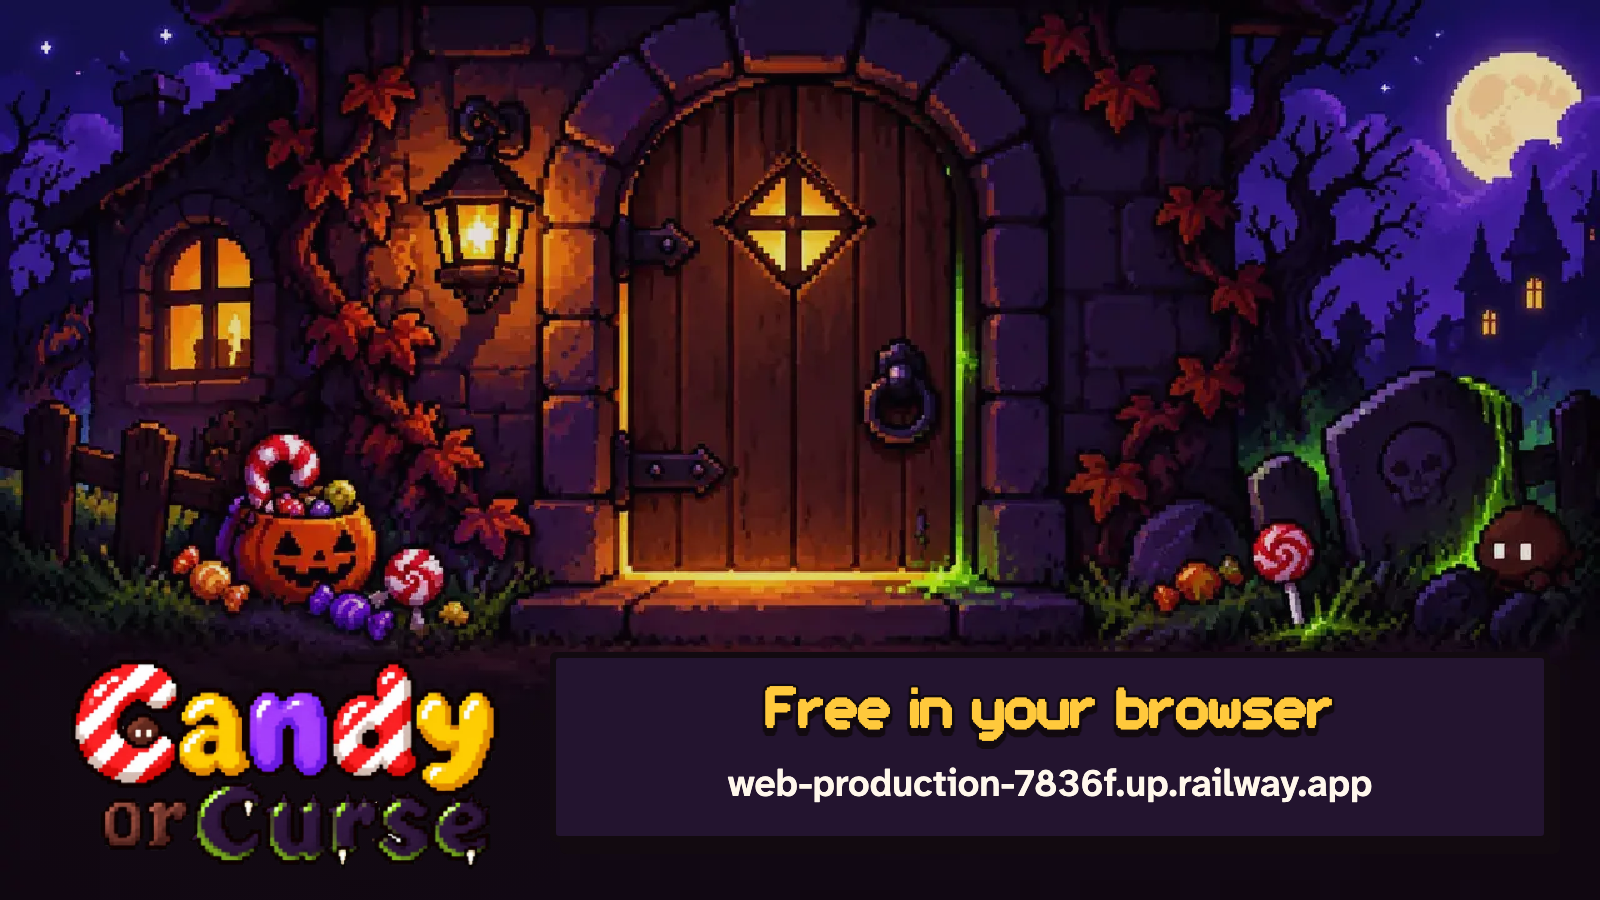
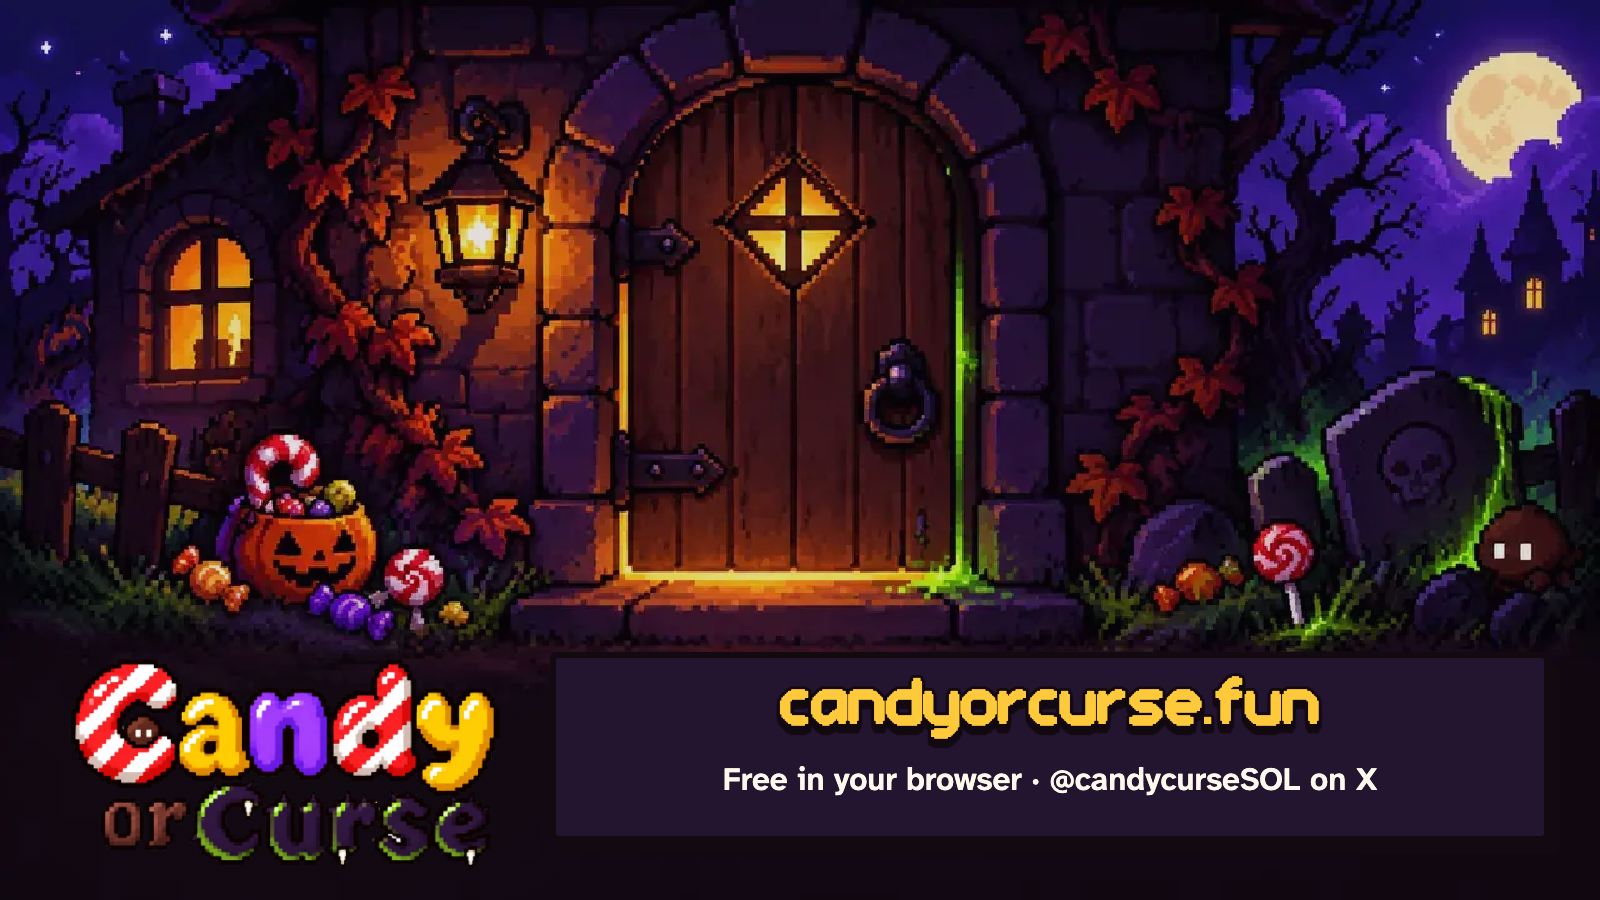
feat: Candy or Curse article points at candyorcurse.fun and @candycurseSOL

Changed region(s): [[0.4375, 0.7467, 0.875, 0.9022]]

diff --git a/kits/candy-or-curse/art/05-close.html b/kits/candy-or-curse/art/05-close.html
@@ -11,4 +11,4 @@ image.px{image-rendering:pixelated}
 </style></head><body><svg width="1600" height="900" viewBox="0 0 1600 900"><defs>
 <pattern id="cane" width="28" height="28" patternUnits="userSpaceOnUse" patternTransform="rotate(45)">
 <rect width="28" height="28" fill="#fff8ec"/><rect width="14" height="28" fill="#e8262b"/></pattern>
-</defs><rect width="1600" height="900" fill="#23142f"/><image class="px" href="porch.webp" x="0" y="0" width="1600" height="900"/><rect width="1600" height="900" fill="#23142f" opacity=".12"/><radialGradient id="pl300"><stop offset="0" stop-color="#120a10" stop-opacity="0.8"/><stop offset="1" stop-color="#120a10" stop-opacity="0"/></radialGradient><ellipse cx="300" cy="760" rx="340" ry="190" fill="url(#pl300)"/><image href="wordmark.webp" x="50" y="640" width="470" height="249.1"/><rect x="560" y="664" width="1000" height="190" rx="6" fill="#120a10"/><rect x="550" y="652" width="1000" height="190" rx="6" fill="#120a10"/><rect x="556" y="658" width="988" height="178" rx="3" fill="#23142f"/><text class="tf o" x="1050" y="733.04" font-size="56" text-anchor="middle" fill="#120a10" stroke-width="6.16">Free in your browser</text><text class="tf o" x="1050" y="728" font-size="56" text-anchor="middle" fill="#ffc93c" stroke-width="6.16">Free in your browser</text><text class="tx" x="1050" y="796" font-size="38" font-weight="700" text-anchor="middle" fill="#fff8ec">web-production-7836f.up.railway.app</text></svg></body></html>
+</defs><rect width="1600" height="900" fill="#23142f"/><image class="px" href="porch.webp" x="0" y="0" width="1600" height="900"/><rect width="1600" height="900" fill="#23142f" opacity=".12"/><radialGradient id="pl300"><stop offset="0" stop-color="#120a10" stop-opacity="0.8"/><stop offset="1" stop-color="#120a10" stop-opacity="0"/></radialGradient><ellipse cx="300" cy="760" rx="340" ry="190" fill="url(#pl300)"/><image href="wordmark.webp" x="50" y="640" width="470" height="249.1"/><rect x="560" y="664" width="1000" height="190" rx="6" fill="#120a10"/><rect x="550" y="652" width="1000" height="190" rx="6" fill="#120a10"/><rect x="556" y="658" width="988" height="178" rx="3" fill="#23142f"/><text class="tf o" x="1050" y="729.76" font-size="64" text-anchor="middle" fill="#120a10" stroke-width="7.04">candyorcurse.fun</text><text class="tf o" x="1050" y="724" font-size="64" text-anchor="middle" fill="#ffc93c" stroke-width="7.04">candyorcurse.fun</text><text class="tx" x="1050" y="790" font-size="32" font-weight="700" text-anchor="middle" fill="#fff8ec">Free in your browser  ·  @candycurseSOL on X</text></svg></body></html>

diff --git a/docs/candy-or-curse/index.html b/docs/candy-or-curse/index.html
@@ -48,7 +48,8 @@ button.ok{background:#f5b301;color:#111}
 <p>Paid treats come from creator fees, and every one buys $CoC. A bigger bag gets a bigger bucket, up to double the treat.</p>
 <h2>Level up, open the town</h2></div></div></div><div class="step"><div class="num">8</div><div class="card"><div class="head"><span class="tag">Image</span><span class="sp"></span><a class="btn ghost" download="04-town.png" href="04-town.png">Download</a><button onclick="copyImage(this)">Copy image</button></div><img src="04-town.png" alt=""></div></div><div class="step"><div class="num">9</div><div class="card"><div class="head"><span class="tag">Text</span><span class="sp"></span><button onclick="copyText(this)">Copy</button></div><div class="body"><p>Hollow Lane is the start. Level up to open the Graveyard, the corn maze, Scream Park and Witch Woods. Fly over all of it on a broom.</p>
 <p><b>Every 15 to 25 minutes the Big House rings its bell and opens for 90 seconds.</b> Get in fast.</p>
-<h2>Come knock</h2></div></div></div><div class="step"><div class="num">10</div><div class="card"><div class="head"><span class="tag">Image</span><span class="sp"></span><a class="btn ghost" download="05-close.png" href="05-close.png">Download</a><button onclick="copyImage(this)">Copy image</button></div><img src="05-close.png" alt=""></div></div><div class="step"><div class="num">11</div><div class="card"><div class="head"><span class="tag">Text</span><span class="sp"></span><button onclick="copyText(this)">Copy</button></div><div class="body"><p><b>Play free at web-production-7836f.up.railway.app</b></p>
+<h2>Come knock</h2></div></div></div><div class="step"><div class="num">10</div><div class="card"><div class="head"><span class="tag">Image</span><span class="sp"></span><a class="btn ghost" download="05-close.png" href="05-close.png">Download</a><button onclick="copyImage(this)">Copy image</button></div><img src="05-close.png" alt=""></div></div><div class="step"><div class="num">11</div><div class="card"><div class="head"><span class="tag">Text</span><span class="sp"></span><button onclick="copyText(this)">Copy</button></div><div class="body"><p><b>Play free at candyorcurse.fun</b></p>
+<p>Follow @candycurseSOL on X.</p>
 <p>What did your first door give you?</p></div></div></div></div>
 </div>
 <div class="toast" id="toast">Copied</div>

diff --git a/kits/candy-or-curse/art/gen.py b/kits/candy-or-curse/art/gen.py
@@ -6,7 +6,8 @@ render.py shoots them to PNG."""
 
 CANDY, PEPPER, GOLD, GRAPE, CURSE, TOXIC, CHOC, INK = '#e8262b', '#fff8ec', '#ffc93c', '#8a3dff', '#23142f', '#8fe03a', '#5a3020', '#120a10'
 RIM, LILAC, SLAB = '#5d3a80', '#cbb6ea', '#2e1b40'
-URL = 'web-production-7836f.up.railway.app'
+URL = 'candyorcurse.fun'
+HANDLE = '@candycurseSOL'
 WORD_R = 1000 / 530  # wordmark.webp width / height
 
 HEAD = f'''<!doctype html><html><head><meta charset="utf-8"><style>
@@ -186,6 +187,6 @@ b.append(img('wordmark.webp', 50, 640, 470, 470 / WORD_R))
 b.append(f'<rect x="560" y="664" width="1000" height="190" rx="6" fill="{INK}"/>'
          f'<rect x="550" y="652" width="1000" height="190" rx="6" fill="{INK}"/>'
          f'<rect x="556" y="658" width="988" height="178" rx="3" fill="{CURSE}"/>')
-b.append(text(1050, 728, 'Free in your browser', 56, GOLD))
-b.append(plain(1050, 796, URL, 38, PEPPER, weight=700))
+b.append(text(1050, 724, URL, 64, GOLD))
+b.append(plain(1050, 790, f'Free in your browser  ·  {HANDLE} on X', 32, PEPPER, weight=700))
 page('05-close.html', 1600, 900, b)
